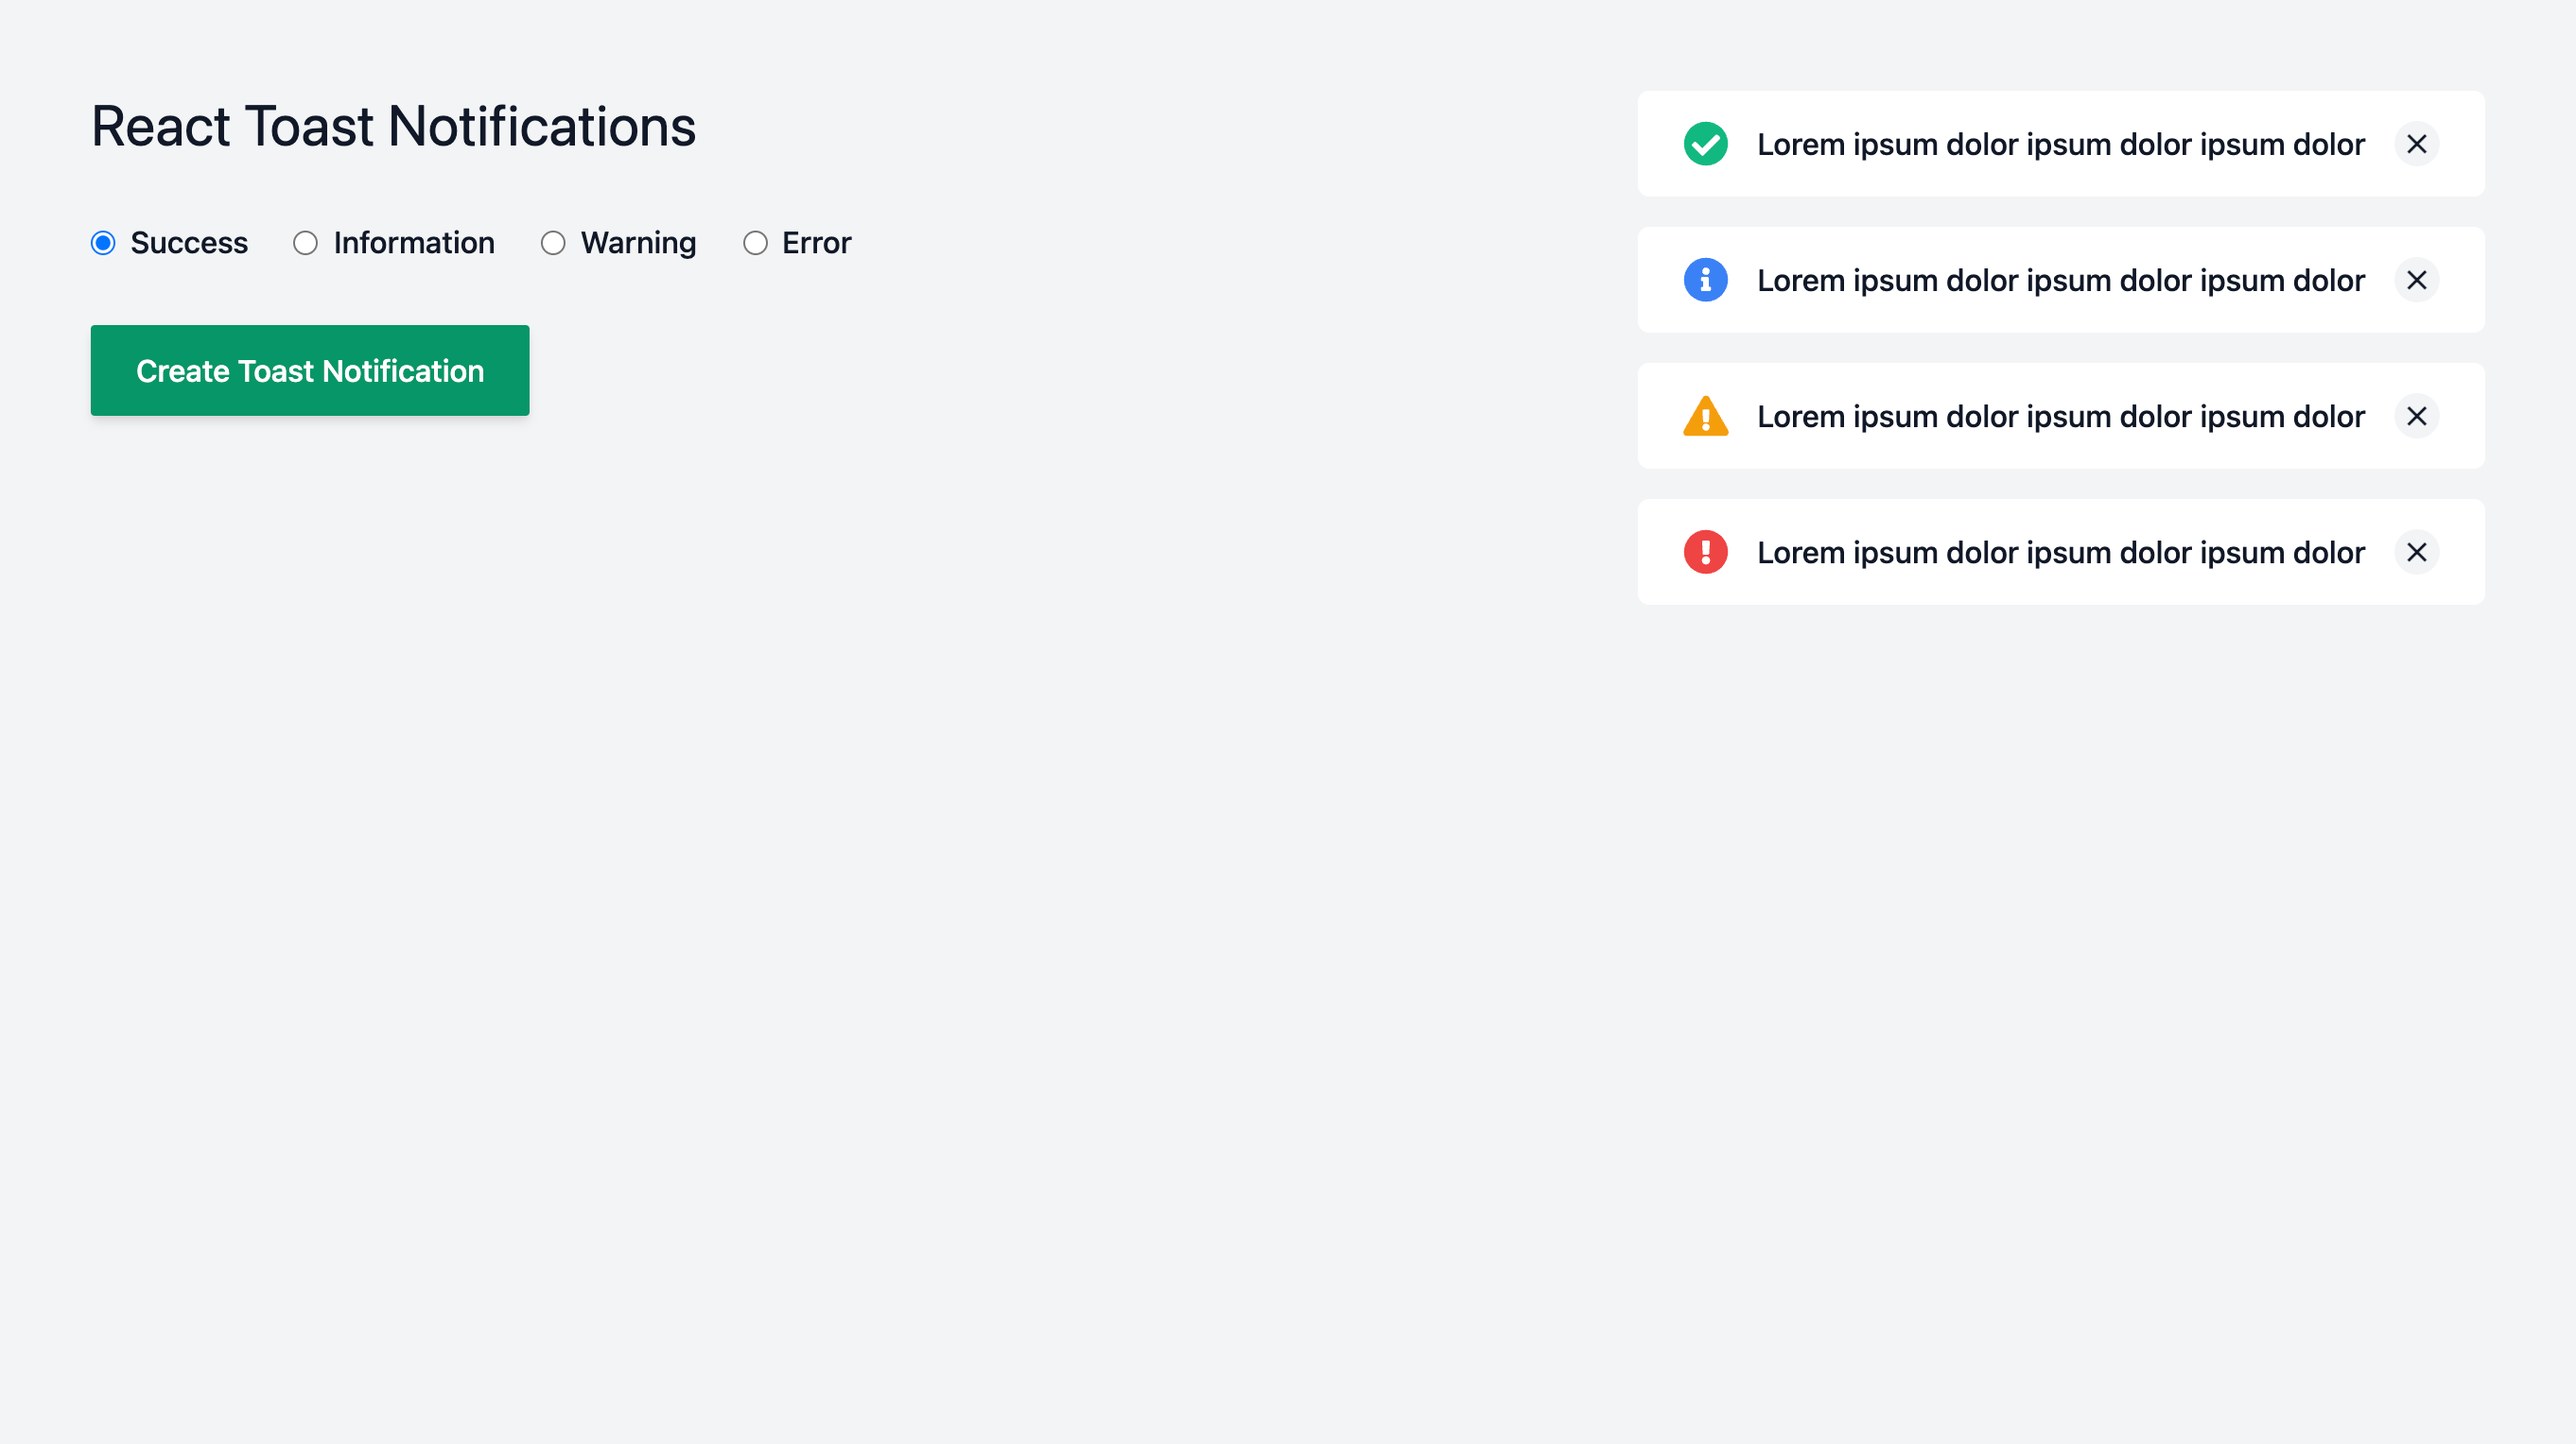
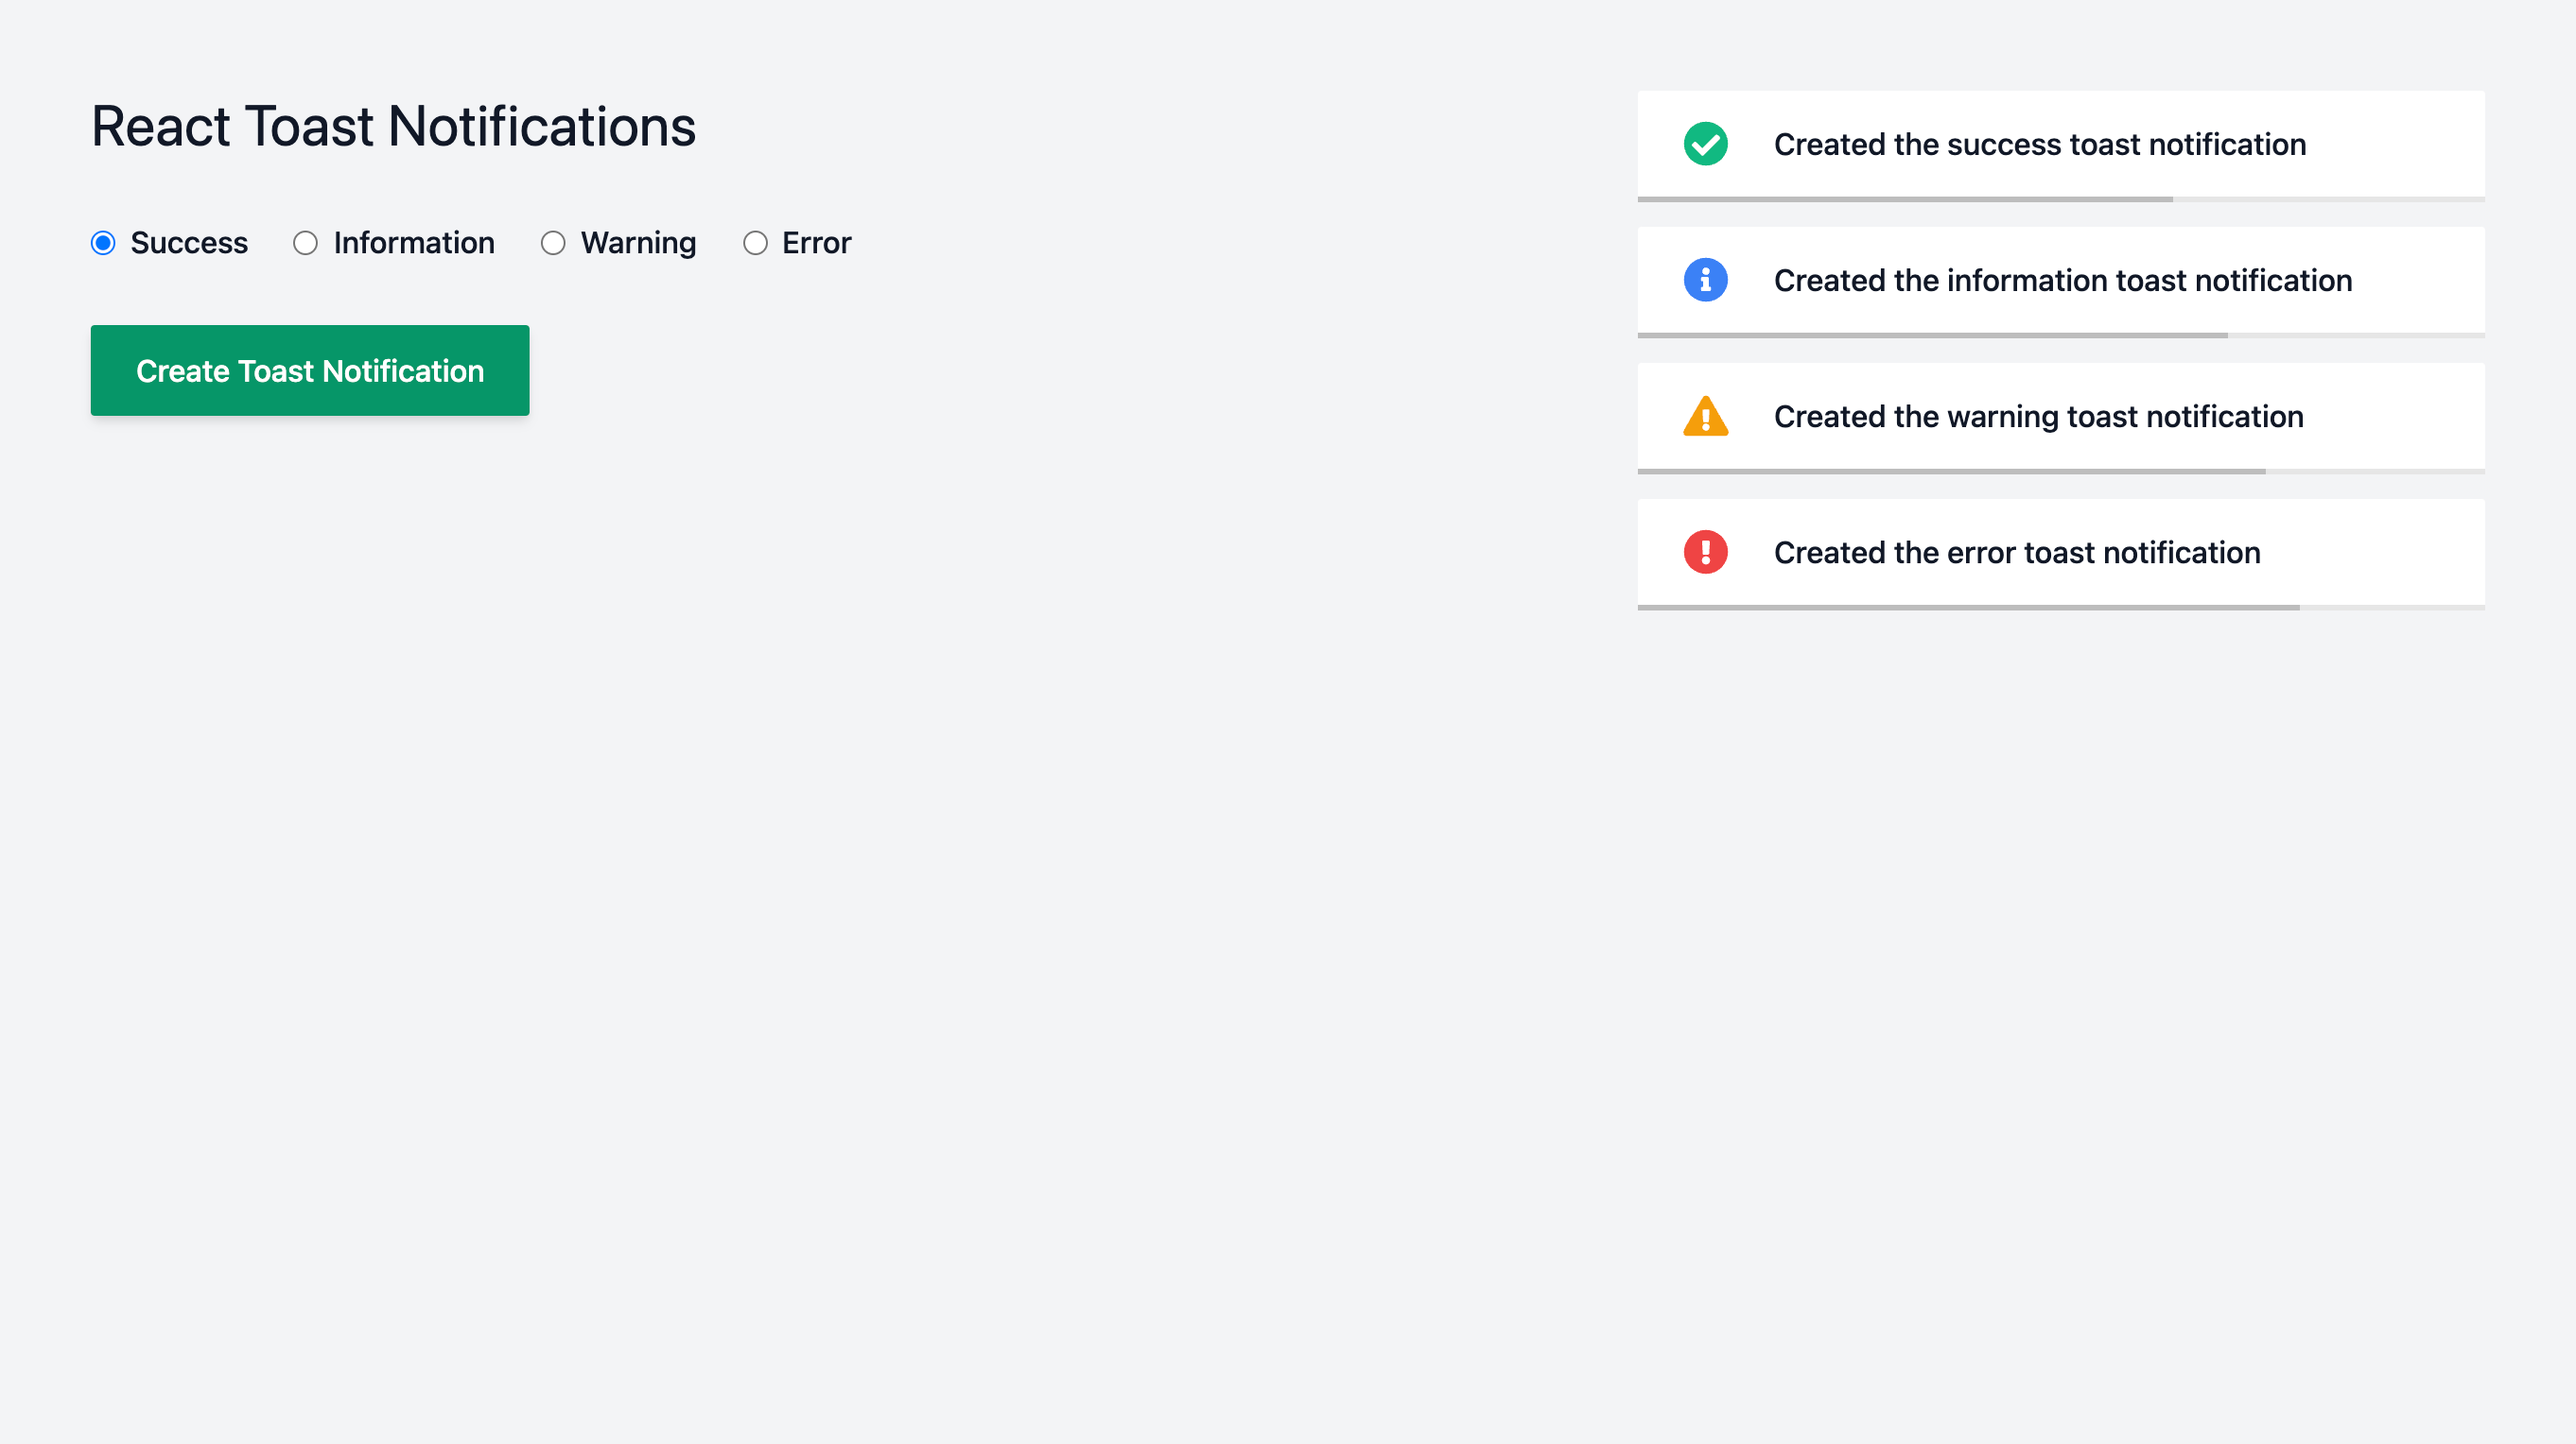
Add toast notification duration animation

diff --git a/src/components/ToastNotification/index.tsx b/src/components/ToastNotification/index.tsx
@@ -1,55 +1,56 @@
-import { useEffect } from "react";
+import { memo, useEffect } from "react";
 import { error, information, success, warning } from "../../assets/icons";
 import { useToastNotifications } from "../../hooks/useToastNotifications";
+import { ToastNotificationDuration } from "../ToastNotificationDuration";
 import type { ToastNotificationProps } from "./types";
 
-export const ToastNotification = ({
-  id,
-  text,
-  type,
-}: ToastNotificationProps) => {
-  const { deleteToastNotification } = useToastNotifications();
+export const ToastNotification = memo(
+  ({ id, text, type }: ToastNotificationProps) => {
+    const { deleteToastNotification } = useToastNotifications();
 
-  // const [createdTimestamp] = useState(() => performance.now());
+    const duration = 4 * 1000; // Four seconds.
 
-  // const currentTimestamp = performance.now();
+    const isDismissible = false;
 
-  // const timeRemainingPercentage =
-  //   100 *
-  //   (1 -
-  //     (currentTimestamp - createdTimestamp) /
-  //       (createdTimestamp + displayTime - createdTimestamp));
+    useEffect(() => {
+      const timeout = setTimeout(() => {
+        deleteToastNotification({ id });
+      }, duration);
 
-  useEffect(() => {
-    const timeout = setTimeout(() => {
-      deleteToastNotification({ id });
-    }, 4 * 1000); // Four seconds.
+      return () => {
+        clearTimeout(timeout);
+      };
+    }, [deleteToastNotification, id, duration]);
 
-    return () => {
-      clearTimeout(timeout);
-    };
-  }, [deleteToastNotification, id]);
+    return (
+      <li className="relative">
+        <div className="rounded-t-sm py-4 px-6 bg-white text-center flex items-center gap-6">
+          {type === "success"
+            ? success
+            : type === "information"
+            ? information
+            : type === "warning"
+            ? warning
+            : type === "error"
+            ? error
+            : information}
 
-  return (
-    <li className="rounded-md py-4 px-6 bg-white text-center flex justify-between items-center gap-3">
-      {type === "success"
-        ? success
-        : type === "information"
-        ? information
-        : type === "warning"
-        ? warning
-        : type === "error"
-        ? error
-        : information}
+          <p className="text-gray-900 text-md text-left font-medium flex-1">
+            {text}
+          </p>
 
-      <p className="text-gray-900 text-md font-medium">{text}</p>
+          {isDismissible && (
+            <button
+              onClick={() => deleteToastNotification({ id })}
+              className="text-gray-900 font-bold h-6 w-6 text-sm rounded-full bg-gray-100 hover:bg-gray-200"
+            >
+              ✕
+            </button>
+          )}
+        </div>
 
-      <button
-        onClick={() => deleteToastNotification({ id })}
-        className="text-gray-900 font-bold h-6 w-6 text-sm rounded-full bg-gray-100 hover:bg-gray-200"
-      >
-        ✕
-      </button>
-    </li>
-  );
-};
+        <ToastNotificationDuration duration={duration} />
+      </li>
+    );
+  }
+);

diff --git a/src/components/ToastNotificationDuration/index.tsx b/src/components/ToastNotificationDuration/index.tsx
@@ -1,0 +1,46 @@
+import styled, { keyframes } from "styled-components";
+import type { ToastNotificationDurationProps } from "./types";
+
+const deplete = keyframes`
+  from {
+  width: 100%;
+  }
+  to {
+  width: 0%;
+  }
+`;
+
+export const ToastNotificationDuration = ({
+  duration,
+}: ToastNotificationDurationProps) => {
+  const Wrapper = styled.div`
+    position: relative;
+  `;
+
+  const Foreground = styled.div`
+    height: 0.2rem;
+    width: 100%;
+    position: absolute;
+    z-index: 1;
+    background-color: #bdbdbd;
+    animation-name: ${deplete};
+    animation-duration: ${(props: { duration: number }) =>
+      `${props.duration / 1000}s`};
+    animation-timing-function: linear;
+  `;
+
+  const Background = styled.div`
+    height: 0.2rem;
+    width: 100%;
+    position: absolute;
+    z-index: 0;
+    background-color: #e6e6e6;
+  `;
+
+  return (
+    <Wrapper>
+      <Foreground duration={duration} />
+      <Background />
+    </Wrapper>
+  );
+};

diff --git a/src/components/CreateToastNotificationForm/index.tsx b/src/components/CreateToastNotificationForm/index.tsx
@@ -21,7 +21,7 @@ export const CreateToastNotificationForm = ({
     event.preventDefault();
 
     createToastNotification({
-      text: "Lorem ipsum dolor ipsum dolor ipsum dolor",
+      text: `Created the ${selectedToastNotificationType} toast notification`,
       type: selectedToastNotificationType,
     });
   };

diff --git a/src/components/ToastNotificationDuration/types.ts b/src/components/ToastNotificationDuration/types.ts
@@ -1,0 +1,3 @@
+export interface ToastNotificationDurationProps {
+  duration: number;
+}
